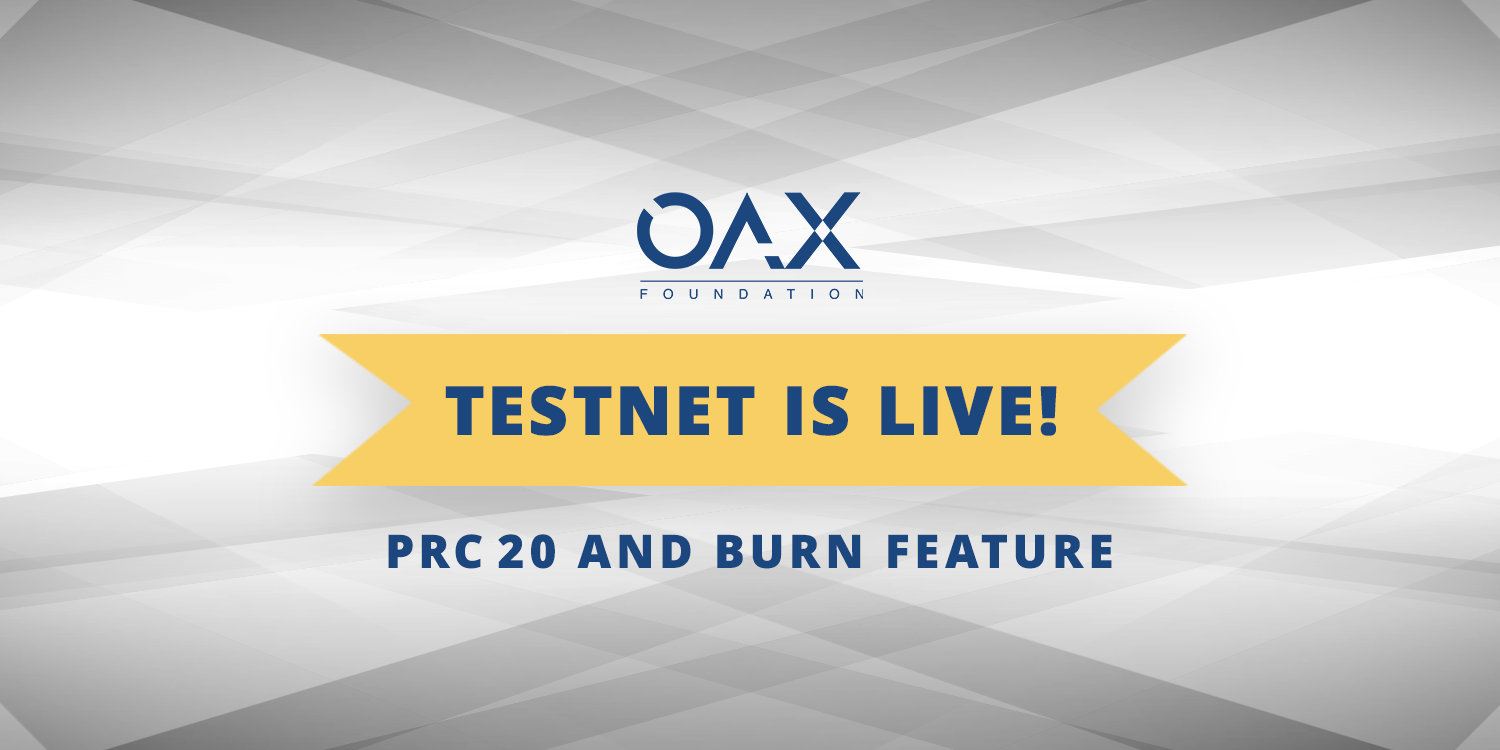
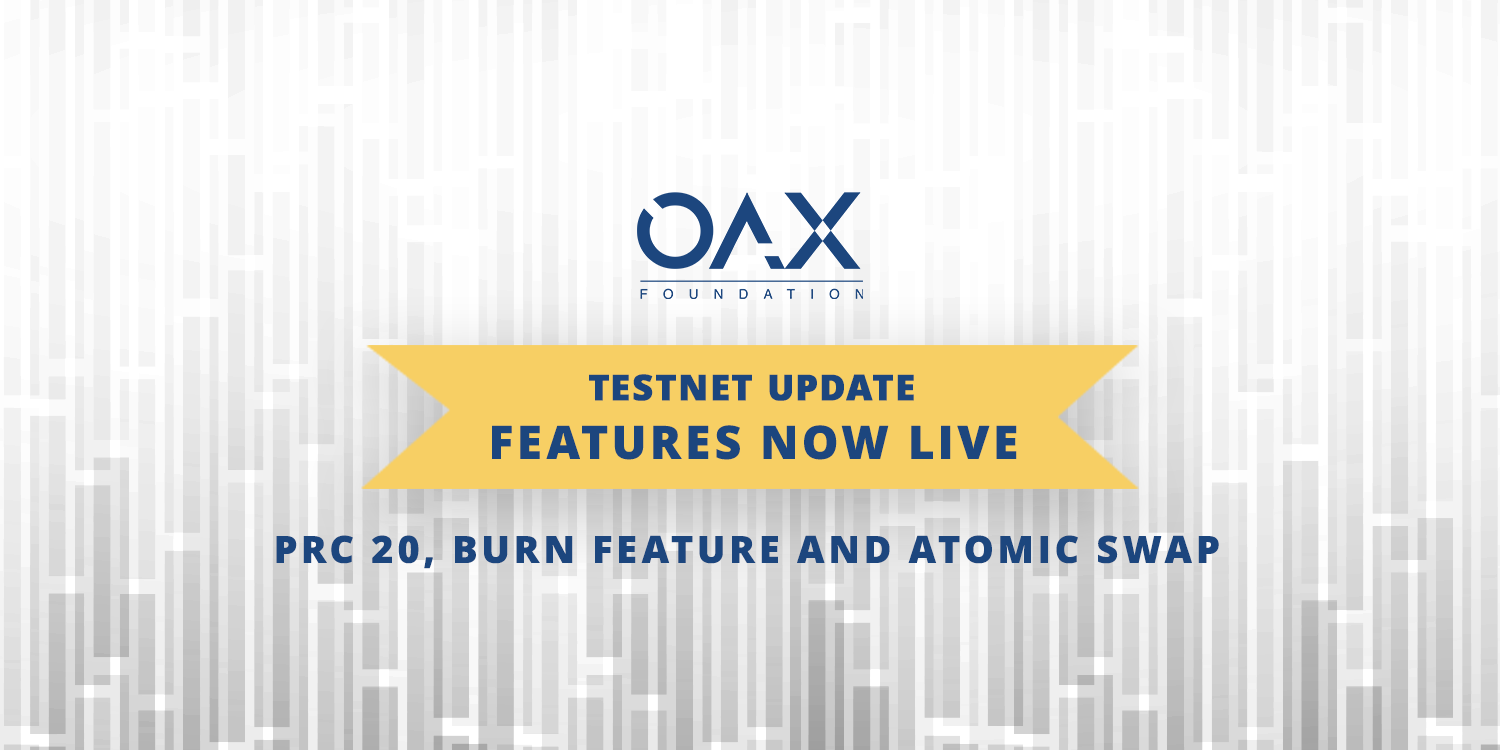
Testnet post update include atomic swap

diff --git a/_posts/2020-9-11-OAX-Parachain-Testnet-Released.md b/_posts/2020-9-11-OAX-Parachain-Testnet-Released.md
@@ -8,6 +8,8 @@ author: OAX Foundation
 
 <b>OAX Parachain Testnet Released</b>
 
+<em>Update: As of October 9, 2020, OAX Testnet has been updated to include Atomic Swap.</em>
+
 Having released our <a href="https://github.com/OAXFoundation/parrot/" target="_blank">open source code</a> last month, OAX is now releasing the first testnet for our parachain with the key features: PRC20 Token Standard and Burn.  As the demos videos we’ve been releasing over the course of the last two months have demonstrated, users will gradually be able to try out the five features for themselves on the Testnet, with runtime updates for additional features in the future .
 
 For those that are interested in trying the first two features on the testnet, simple instructions to get up and running can be found on our <a href="https://github.com/OAXFoundation/parrot/blob/master/Testnet-HOWTO.md" target="_blank">Github page</a>. Setting up only requires a simple configuration to which users can try out our Testnet <a href="http://testnet.oax.org" target="_blank">here</a>. Our testnet faucet that was mentioned in previous posts to retrieve tokens can be found in our Telegram group!
@@ -21,3 +23,5 @@ We’ve created demo videos over the course of our development, to demonstrate t
 <a href="https://www.oax.org/2020/07/24/A-Look-At-The-OAX-Parachain-Atomic-Swap.html" target="_blank"> Atomic Swap</a>
 
 <a href="https://www.oax.org/2020/08/27/A-Look-At-The-OAX-Parachain-Multitransfer-Feature.html" target="_blank"> MultiTransfer</a>
+
+<a href="https://www.oax.org/2020/09/17/A-Look-At-The-OAX-Parachain-Fee-Delegation-Feature.html" target="_blank"> Fee Delegation</a>
